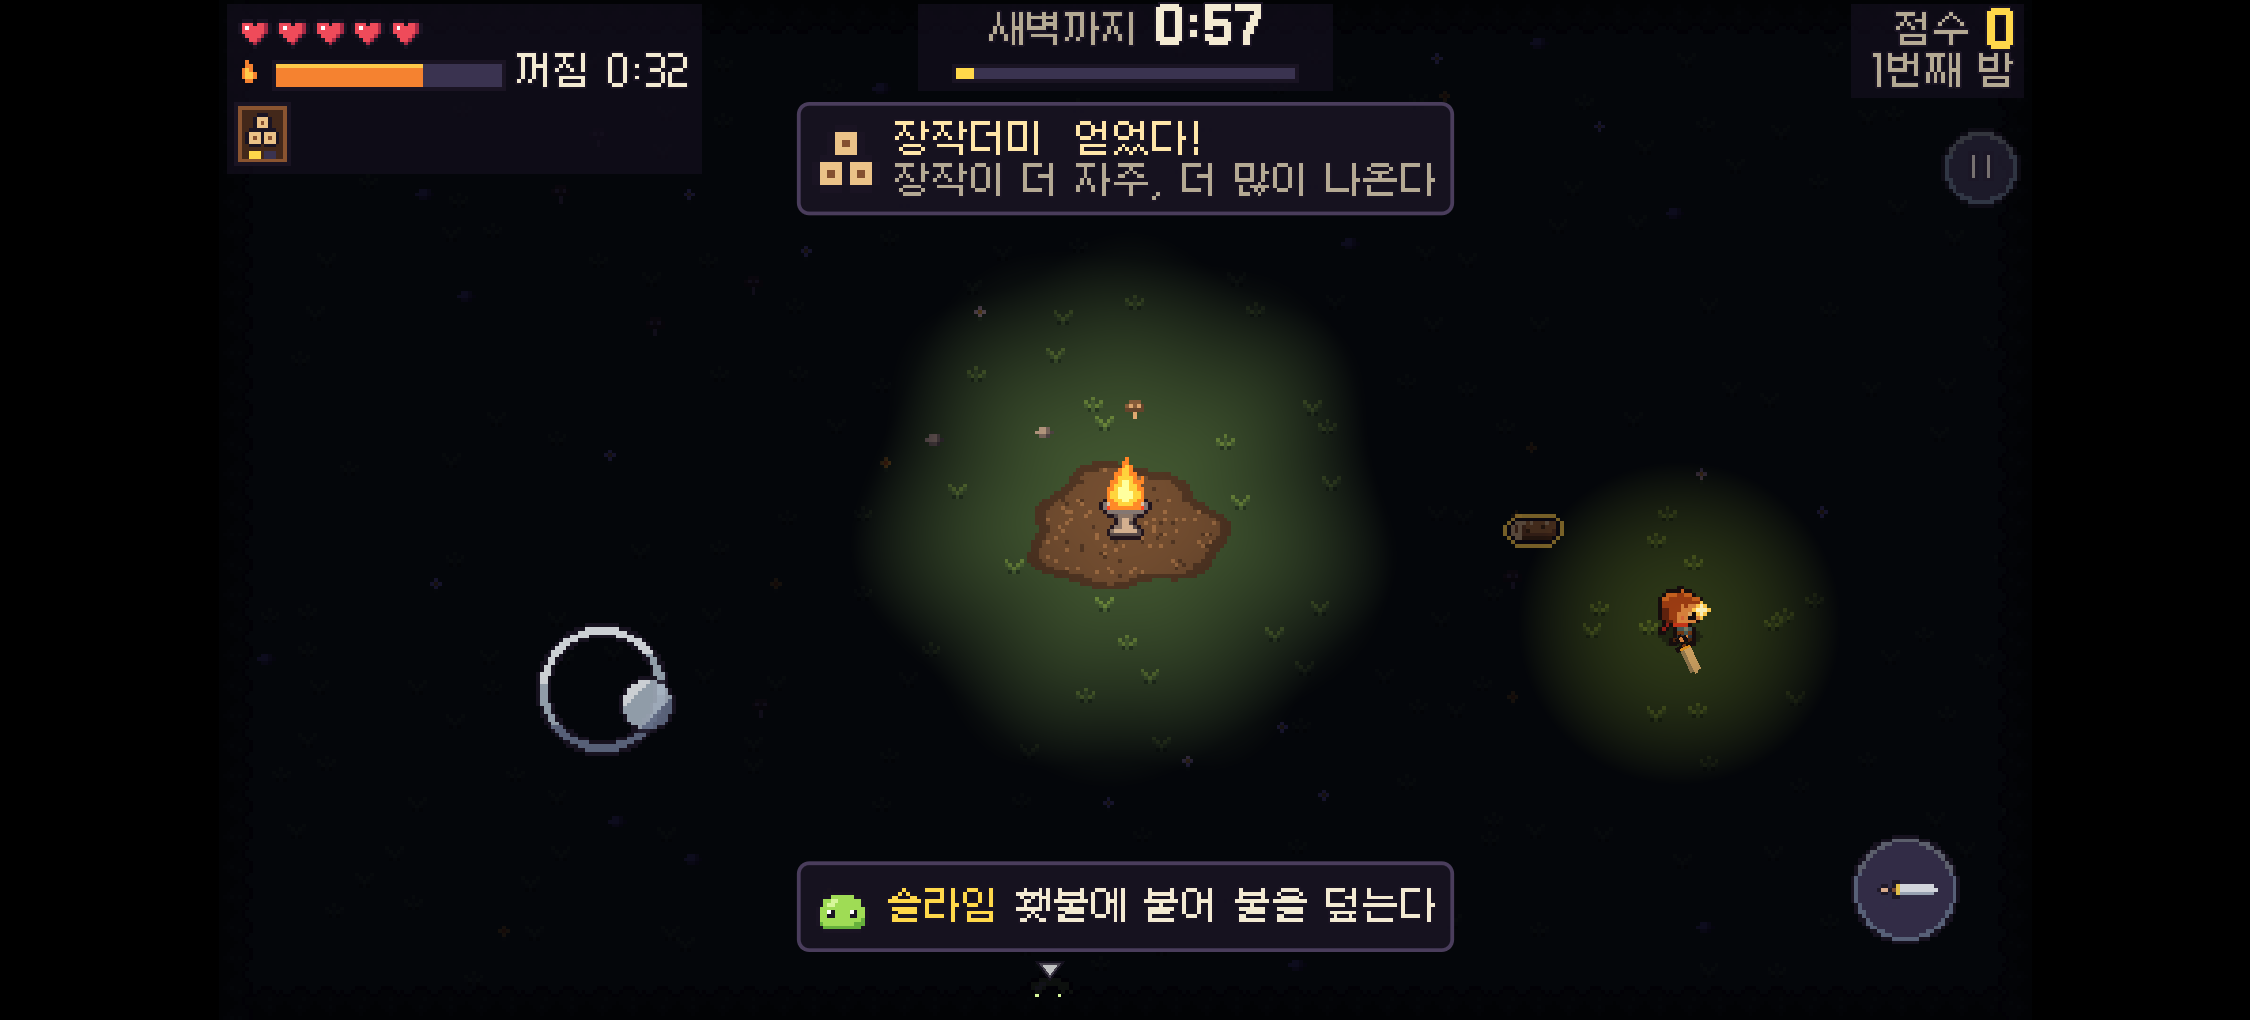
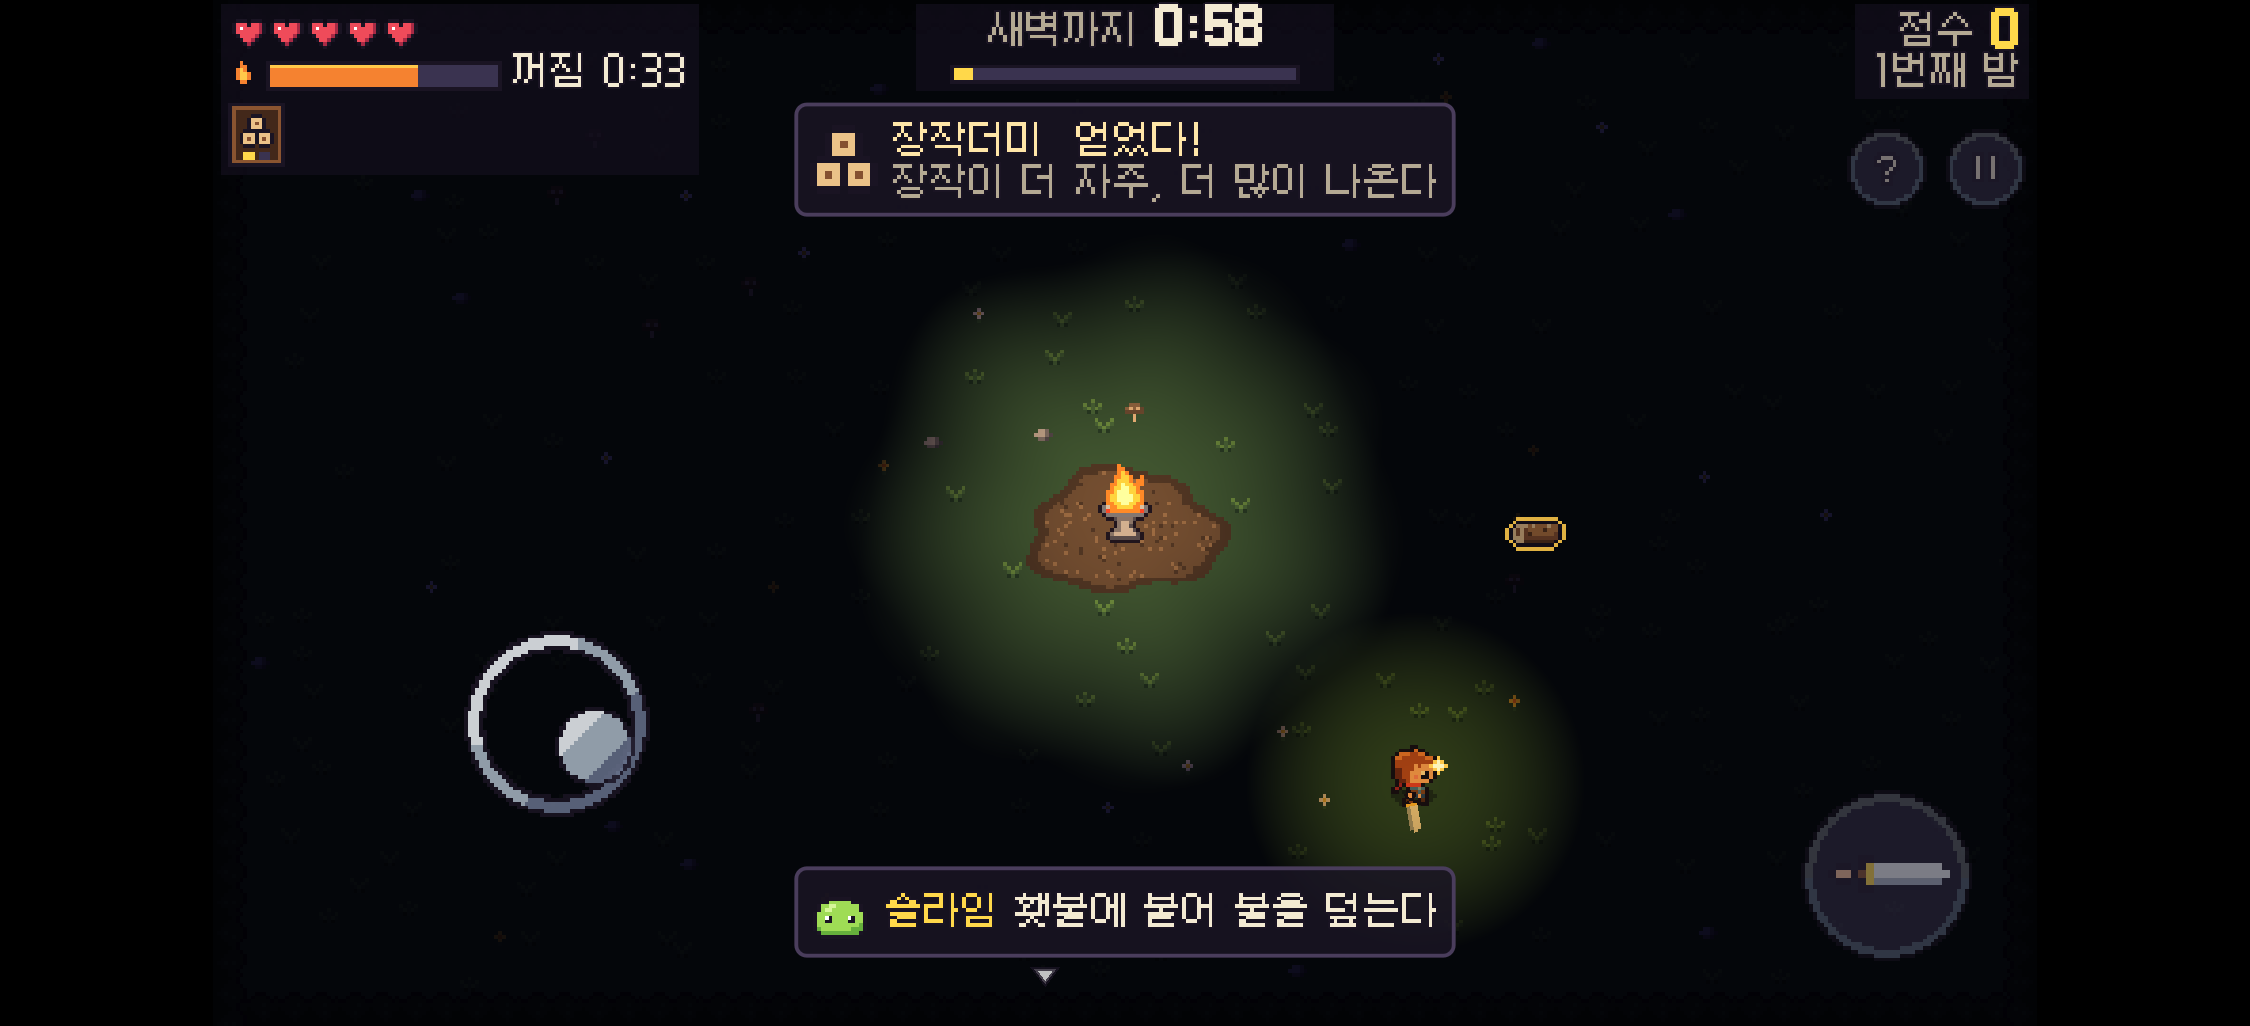
Bigger sword and dash buttons; a tap anywhere on the right half swings
Claude-Session: https://claude.ai/code/session_01FjPTzf986GtinDBtggmZHb

diff --git a/docs/DECISIONS.md b/docs/DECISIONS.md
@@ -3,6 +3,18 @@
 새 결정은 위에 추가한다. 형식: 날짜 · 무엇을 · 왜 · 어디에 반영했는지(검사/코드/글).
 콘셉트를 정한 과정(장르, 아트 세대, 세대별 능력, 에셋 조사, 엔진 선택)은 `../pixelfx-starter/docs/DECISIONS.md`에 있다.
 
+## 2026-11-26 · 터치 버튼: 칼 버튼을 엄지만큼, 오른쪽 아무 데나 누르면 베기
+- 문제: 휴대폰으로 해 본 사람이 "공격 버튼이 너무 작다"고 했다. 칼 버튼은 29픽셀(게임 픽셀, 폰에서 3~4배라 CSS로 약 33픽셀), 닿는 반경 22. 싸우는 동안 화면을 보느라 버튼을 안 보고 누르면 자주 빗나갔다.
+- 결정:
+  - 칼 버튼 45픽셀(`button`, Pixel 7 가로에서 CSS 51픽셀, 약 1.4cm), 그림의 칼은 두 배로. 가운데는 오른쪽·아래 끝에서 40픽셀, 그래서 가장자리에서 17픽셀 떨어진다(둥근 모서리, 노치). 닿는 반경 34.
+  - 돌진 버튼 33픽셀(`button_mid`, 예전 21), 아이콘 두 배. 칼 버튼 왼쪽 아래(가운데끼리 62픽셀), 닿는 반경 24. 두 반경의 합(58)이 거리보다 작아서 한 번에 둘이 답하지 않는다.
+  - 화면 오른쪽 절반(HUD 아래, 다른 버튼 밖) 아무 데나 누르면 베기. 오른쪽 엄지는 버튼을 찾지 않고 그냥 두드리면 된다. 놀 때 오른쪽 절반에는 다른 쓸모가 없어서 잘못 누를 것이 없다. 다른 안은 버튼만 키우기였는데, 아무리 커도 화면을 보고 있으면 빗나가므로 둘 다 했다. 돌진 강화가 없으면 돌진 버튼 자리도 베기다. 베기가 눌리면 칼 버튼이 눌린 모습이 되어서 어디를 눌렀든 무엇이 됐는지 보인다.
+  - 일시정지·"?"(오른쪽 위, y < 60)와 HUD 쪽은 그대로.
+- 결정론: 입력 다리와 그리기만. 골든 그대로.
+- 검사: `tools/touch_test.gd`의 `_buttons`: 오른쪽 절반의 세 곳(버튼 밖 포함)이 베기, 오른쪽 위 HUD는 아님, 칼 버튼 40픽셀 이상·돌진 30픽셀 이상이고 닿는 반경이 그림보다 큼, 두 버튼이 한 번에 답하지 않음, 두 버튼이 화면 끝 8픽셀(`EDGE`) 안·HUD·왼쪽 절반에 걸치지 않음, 돌진 강화가 있을 때 그 자리는 돌진만. 심은 버그(오른쪽 절반 베기 빼기)가 잡혔다.
+- 브라우저에서 확인(Playwright Chromium, Pixel 7 가로와 iPhone 13 가로, hasTouch, CDP 실제 터치, `build/web` 내보내기): 조이스틱 30° 밀기와 위왼쪽까지 돌리기, 걸으면서 오른쪽 절반 두드려 베기, 칼 버튼 누르기. 콘솔 오류 없음. `docs/shots/mobile.png`를 새로 찍었다.
+- 반영: `src/touch.gd`(`ATTACK`, `DASH`, 반경, `EDGE`, `ICON_SCALE`), `src/art/sprites.gd`(`button`, `button_mid`), `src/ui.gd`(첫 화면 터치 글자), `tools/touch_test.gd`, `README.md`, `docs/shots/mobile.png`.
+
 ## 2026-11-26 · 터치 조이스틱: 8방향 대신 민 방향 그대로
 - 문제: 휴대폰으로 해 본 사람이 "터치로 움직이기가 어렵고 어색하다"고 했다. 조이스틱이 키 넷(8방향)으로 바뀌어서, 엄지를 조금씩 돌려도 키퍼는 45°씩 꺾이고, 22.5° 경계에 엄지가 있으면 떨리는 만큼 두 방향을 오갔다. 링(손잡이가 가는 거리 13픽셀)도 작아서 조금만 움직여도 끝에 닿았다. 멈출 때도 시작하는 4픽셀 경계 하나뿐이라 엄지를 가운데 쪽에 두면 걷다 서다를 반복했다.
 - 결정:

diff --git a/README.md b/README.md
@@ -77,8 +77,8 @@ godot --path . -- --bot --slot=2  # 봇이 늘 고르는 강화 칸
 | 터치 | 동작 |
 |---|---|
 | 화면 왼쪽 아무 데나 누르고 끌기 | 이동 (손가락이 닿은 자리에 조이스틱이 나타납니다. 민 방향 그대로, 조금만 밀어도 제 속도로 걷습니다) |
-| 오른쪽 아래 칼 버튼 | 베기 (장작을 들고 있으면 내려놓기). 이동하면서 같이 누를 수 있습니다 |
-| 칼 버튼 왼쪽 작은 버튼 | 돌진 (돌진 강화를 얻은 뒤에만 보입니다) |
+| 오른쪽 아래 큰 칼 버튼, 또는 화면 오른쪽 아무 데나 | 베기 (장작을 들고 있으면 내려놓기). 이동하면서 같이 누를 수 있습니다 |
+| 칼 버튼 왼쪽 버튼 | 돌진 (돌진 강화를 얻은 뒤에만 보입니다) |
 | 오른쪽 위 ‖ 버튼 | 일시정지. 아무 데나 누르면 계속 |
 | 그 왼쪽 ? 버튼 | 첫 화면(설명) 다시 보기. 일시정지 화면에서도 됩니다 (키보드의 H) |
 | 첫 화면, 끝 화면을 누르기 | 시작, 다시 하기 |
